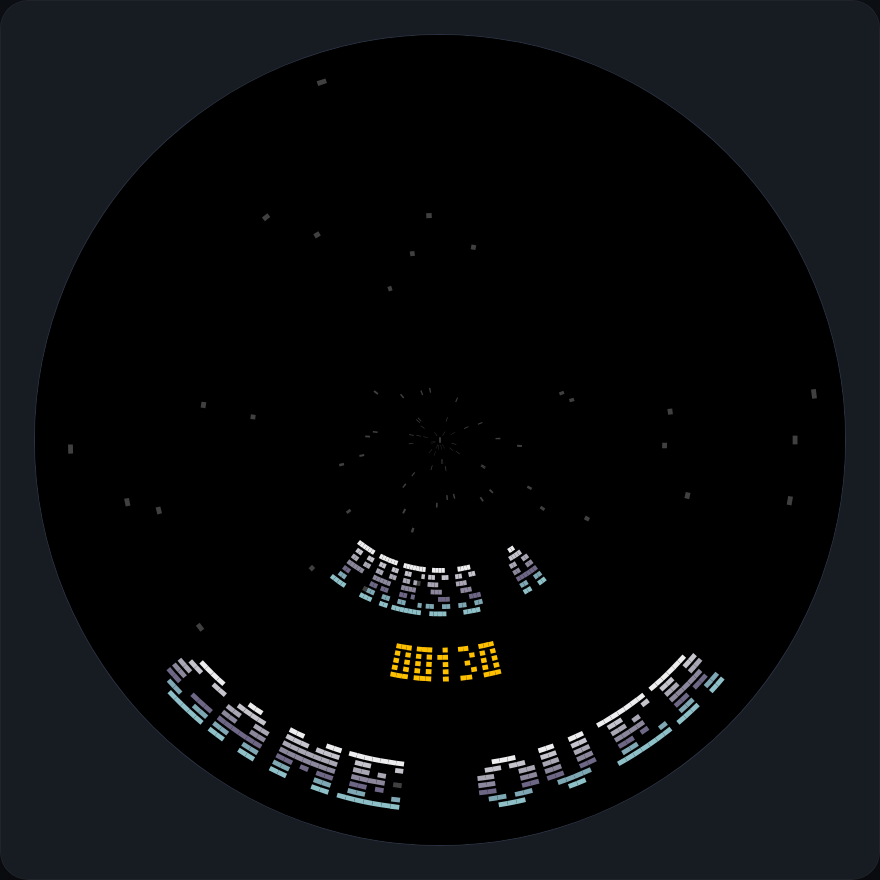
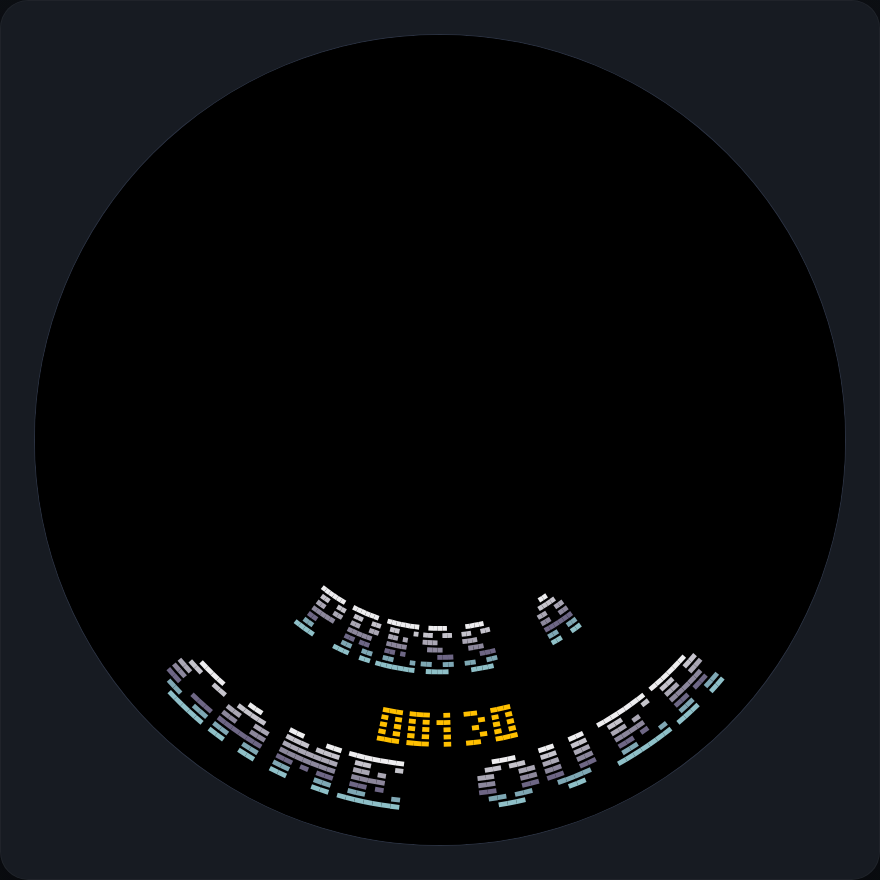
Make the scene's starfield flag work on the console and in both emulators
vs2.Scene.starfield was applied through display.set_starfield, which no platform
provided, so every scene always had stars. Implement it everywhere:

- console: forward to vshw_povdisplay.set_starfield_enabled;
- desktop emulator: remotepov sends 'starfield 0|1' (resent on reconnect) and
  the host's povrender skips its stars, in the CPU, native and shader paths;
- web emulator: BrowserDisplay posts the same command, app.js keeps the state
  and the CPU, shader and WebGL star paths honour it.

The rule: a V2 scene has stars only when it sets starfield = True; the director
turns them on when it enters any scene that has no starfield flag (the older
sprite API, which always has them, e.g. a legacy game pushed by the VS2
launcher). That makes the switch-off in Scene.on_exit unnecessary, so it goes,
and two starry scenes in a row no longer flicker.

The launcher menus and the two space shooters keep their stars. Tests cover the
V2 flag on and off, a legacy scene after a dark one, no toggling between two
starry scenes, and the desktop and browser renderers. Every tutorial screenshot
is retaken without the stars the games never asked for.

Claude-Session: https://claude.ai/code/session_01Am6eVYV27DcbeE9tF3fxdW

Changed region(s): [[0.3375, 0.6136, 0.583, 0.8591], [0.6136, 0.675, 0.675, 0.7364], [0.5523, 0.6136, 0.6136, 0.675]]

diff --git a/web/app.js b/web/app.js
@@ -42,7 +42,7 @@ import {
 
 import { BrowserAudioHost } from "./audio-host.js?v=20260709a";
 import { ChipAudioHost } from "./chip-audio-host.js?v=20260727b";
-import { LedRingWebGLRenderer, LedRingCanvasRenderer } from "./led-ring-renderers.js?v=20261003a";
+import { LedRingWebGLRenderer, LedRingCanvasRenderer } from "./led-ring-renderers.js?v=20261004a";
 import { RemoteWorkbenchAdapter, isRemoteMode } from "./remote-adapter.js?v=20260722e";
 
 
@@ -85,6 +85,9 @@ class BrowserHostApp {
     this.paletteVersion = 0;
     this.paletteUploadVersion = 0;
     this.paletteLoadedBytes = 0;
+    // Whether the scene asked for the background stars ("starfield 0|1"
+    // events from vs2.Scene); on until a scene says otherwise.
+    this.starfieldEnabled = true;
     this.lastFrame = null;
     this.lastFrameShape = null;
     this.lastMemorySnapshot = null;
@@ -294,6 +297,10 @@ class BrowserHostApp {
       }
       if (event.command === "base") {
         this.applyBaseControl(event.args || []);
+        continue;
+      }
+      if (event.command === "starfield") {
+        this.starfieldEnabled = event.args?.[0] !== "0";
         continue;
       }
       if (event.command === "palette" && event.data instanceof Uint8Array) {
@@ -661,6 +668,7 @@ class BrowserHostApp {
     this.palette = null;
     this.paletteVersion = 0;
     this.paletteLoadedBytes = 0;
+    this.starfieldEnabled = true;
     if (this.pollRequestId !== null) {
       window.cancelAnimationFrame(this.pollRequestId);
       this.pollRequestId = null;
@@ -1910,6 +1918,7 @@ class BrowserHostApp {
     } else if (!Array.isArray(frame.sprites)) {
       frame.sprites = [];
     }
+    frame.starfield = this.starfieldEnabled !== false;
     this.renderBasePreview();
     if (
       frame.palette instanceof Uint8Array &&
@@ -2146,6 +2155,7 @@ class BrowserHostApp {
       paletteVersion: this.paletteUploadVersion,
       frameNumber: frame.frame || 0,
       columnOffset: frame.column_offset || 0,
+      starfield: frame.starfield !== false,
     };
   }
 
@@ -2200,7 +2210,7 @@ class BrowserHostApp {
         strips: shaderCore.packStrips(this.assetIndex),
         palette: shaderCore.packPalette(this.palette),
         sceneData: packedScene,
-        stars: shaderCore.packStars(shaderCore.computeStarPositions(sceneInput.frameNumber)),
+        stars: shaderCore.packStars(shaderCore.computeStarPositions(sceneInput.frameNumber, sceneInput.starfield)),
         deepspace: shaderCore.packDeepspace(),
         columnOffset: sceneInput.columnOffset,
       });

diff --git a/web/scene-webgl-compositor.js b/web/scene-webgl-compositor.js
@@ -2,7 +2,7 @@
 // scene into integer textures and lets scene-shader-core's fragment shader
 // write the complete 256-column LED frame into the ring renderer's texture.
 
-import "./scene-shader-core.js?v=20260729a";
+import "./scene-shader-core.js?v=20261004a";
 
 const SceneShaderCore = globalThis.VentilastationSceneShaderCore;
 
@@ -198,7 +198,7 @@ class LedSceneWebGLCompositor {
     const scene = input.sceneKind === "vs2"
       ? packSceneVs2(input.sceneBytes)
       : packSceneLegacy(input.sceneBytes);
-    const stars = packStars(computeStarPositions(input.frameNumber));
+    const stars = packStars(computeStarPositions(input.frameNumber, input.starfield));
     const afterPackAt = performance.now();
     this.uploadIntegerTexture(this.textures.scene, {
       width: scene.sceneWidth,

diff --git a/web/index.html b/web/index.html
@@ -238,10 +238,10 @@
 
   <script type="module" src="./micropython-bridge.js?v=20260714b"></script>
   <script type="module" src="./wasm-adapter.js?v=20260714b"></script>
-  <script src="./led-render-core.js?v=20260729a"></script>
+  <script src="./led-render-core.js?v=20261004a"></script>
   <script src="./rom-builder-core.js?v=20261003b"></script>
   <script src="./rom-builder-browser.js?v=20260622c"></script>
-  <script type="module" src="./app.js?v=20261003a"></script>
+  <script type="module" src="./app.js?v=20261004a"></script>
   <script type="module" src="./monaco-ide.js?v=20260715a"></script>
 </body>
 </html>

diff --git a/web/led-ring-renderers.js b/web/led-ring-renderers.js
@@ -7,7 +7,7 @@ import {
   createLedRingGeometry,
   DEFAULT_WEBGL_RESOLUTION_SCALE,
 } from "./app-support.js?v=20260717b";
-import { LedSceneWebGLCompositor } from "./scene-webgl-compositor.js?v=20260729a";
+import { LedSceneWebGLCompositor } from "./scene-webgl-compositor.js?v=20261004a";
 
 // The LED ring spans +/-103.2 world units; this many units fit across the
 // canvas, so the outermost LEDs just touch the circular edge the stylesheet

diff --git a/web/led-render-core.js b/web/led-render-core.js
@@ -445,7 +445,9 @@
     }
 
     const columnOffset = positiveMod(Number(frame?.column_offset || 0), COLUMNS);
-    drawStarfield(pixels, frame?.frame || 0, columnOffset);
+    if (frame?.starfield !== false) {
+      drawStarfield(pixels, frame?.frame || 0, columnOffset);
+    }
 
     if (!(palette instanceof Uint8Array) || !Array.isArray(frame?.sprites)) {
       return pixels;

diff --git a/web/scene-shader-core.js b/web/scene-shader-core.js
@@ -534,7 +534,10 @@
     }));
   })();
 
-  function computeStarPositions(frameNumber) {
+  function computeStarPositions(frameNumber, enabled = true) {
+    if (enabled === false) {
+      return [];
+    }
     const ticks = Math.max(0, Number(frameNumber || 0));
     return webStarfield.map((star) => {
       const wrappedY = positiveMod(star.y0 - ticks, ROWS);

diff --git a/tests/test_vs2_api.py b/tests/test_vs2_api.py
@@ -655,6 +655,74 @@ class Vs2ApiTests(unittest.TestCase):
             self.assertIsNone(getattr(bare, "_vs_api_slug", None))
             self.assertIsNone(getattr(bare, "_vs_declared_api", None))
 
+    def starfield_calls(self):
+        """Record every set_starfield call the headless display receives."""
+        calls = []
+        display = self.runtime_director.platform.display
+        original = display.set_starfield
+
+        def record(enabled):
+            calls.append(bool(enabled))
+            original(enabled)
+
+        display.set_starfield = record
+        return calls
+
+    def test_a_v2_scene_gets_stars_only_when_it_asks_for_them(self):
+        vs2 = self.vs2
+        display = self.runtime_director.platform.display
+
+        class Dark(vs2.Scene):
+            def build(self):
+                self.layer("world")
+
+        class Starry(Dark):
+            starfield = True
+
+        with mock.patch.object(director, "load_rom"):
+            self.enter(Dark())
+            self.assertFalse(display.starfield_enabled)
+            director.pop()
+            self.enter(Starry())
+            self.assertTrue(display.starfield_enabled)
+
+    def test_a_legacy_scene_always_gets_stars(self):
+        vs2 = self.vs2
+        display = self.runtime_director.platform.display
+
+        class Dark(vs2.Scene):
+            def build(self):
+                self.layer("world")
+
+        class Legacy(LegacyScene):
+            def step(self):
+                pass
+
+        with mock.patch.object(director, "load_rom"):
+            self.enter(Dark())
+            self.assertFalse(display.starfield_enabled)
+            # The launcher pushing a legacy game on top of a scene with the
+            # stars off is the common case.
+            director.push(Legacy())
+            self.assertTrue(display.starfield_enabled)
+
+    def test_stars_stay_on_between_two_scenes_that_both_want_them(self):
+        vs2 = self.vs2
+
+        class Starry(vs2.Scene):
+            starfield = True
+
+            def build(self):
+                self.layer("world")
+
+        with mock.patch.object(director, "load_rom"):
+            first = self.enter(Starry())
+            calls = self.starfield_calls()
+            first.switch(Starry())
+            first._commit_transition()
+        self.assertTrue(calls)
+        self.assertNotIn(False, calls)
+
     def test_idle_default_pops_and_back_button_can_be_claimed(self):
         vs2 = self.vs2
         idle_calls = []

diff --git a/apps/micropython/ventilastation/platforms/browser.py b/apps/micropython/ventilastation/platforms/browser.py
@@ -169,6 +169,8 @@ class BrowserDisplay(NullDisplay):
         self.assets = {}
         self.dirty_asset_slots = set()
         self.vs2_scene_data = None
+        self.starfield_enabled = True
+        self._starfield_dirty = True
         self._vs2_scene_line = None
         self._vs2_scene_line_length = -1
         self._worker_post_command_ptr = None
@@ -221,6 +223,17 @@ class BrowserDisplay(NullDisplay):
         if self.worker_host is None:
             return False
         return _post_worker_command(self.worker_host, line, data)
+
+    def set_starfield(self, enabled):
+        """Turn the background stars on or off (the scene's ``starfield``
+        flag). The browser draws them, so the state is posted to it."""
+        enabled = bool(enabled)
+        if enabled != self.starfield_enabled:
+            self.starfield_enabled = enabled
+            self._starfield_dirty = True
+
+    def _starfield_line(self):
+        return b"starfield 1" if self.starfield_enabled else b"starfield 0"
 
     def _post_vs2_scene(self):
         data = self.vs2_scene_data
@@ -395,6 +408,9 @@ class BrowserDisplay(NullDisplay):
         if self.worker_host is None:
             return
         full = bool(self.worker_host.consume_full_frame_request())
+        if full or self._starfield_dirty:
+            self._post_command(self._starfield_line())
+            self._starfield_dirty = False
         if (full or self.palette_dirty) and self.palette:
             self._post_command("palette %d %d" % (len(self.palette), self.palette_version), self.palette)
         if full:
@@ -474,6 +490,12 @@ class BrowserDisplay(NullDisplay):
         exported["assets"] = [self.assets[slot] for slot in asset_slots if slot in self.assets]
         after_assets_at = ticks_us()
         exported["events"] = self.comms.drain_events()
+        if full or self._starfield_dirty:
+            exported["events"].append({
+                "command": "starfield",
+                "args": ["1" if self.starfield_enabled else "0"],
+            })
+            self._starfield_dirty = False
         if self.vs2_scene_data is not None:
             exported["events"].append({
                 "command": "vs2_scene",

diff --git a/emulator/povrender.py b/emulator/povrender.py
@@ -22,6 +22,8 @@ STARS = COLUMNS // 2
 led_count = PIXELS
 
 starfield = [(random.randrange(COLUMNS), random.randrange(ROWS)) for n in range(STARS)]
+# Whether the stars are drawn: the running scene sets it (comms "starfield").
+starfield_enabled = True
 spritedata = bytearray( b"\0\0\0\xff\xff" * 100)
 
 # The native compositor normally consumes decoded Python structures.  The
@@ -181,7 +183,7 @@ def snapshot_scene_shader_input():
             "scene": _vs2_scene_bytes if _vs2_scene_bytes is not None else bytes(spritedata),
             "assets": tuple(all_strips.items()),
             "palette": _palette_wire_bytes,
-            "stars": tuple(starfield),
+            "stars": tuple(starfield) if starfield_enabled else (),
             "assets_revision": _scene_assets_revision,
             "palette_revision": _scene_palette_revision,
         }
@@ -497,6 +499,12 @@ def render_sprite(pixels, column, x, y, image, frame, perspective,
                 set_pixel(pixels, led, upalette[index + pal_base])
 
 
+def set_starfield_enabled(enabled):
+    global starfield_enabled
+    starfield_enabled = bool(enabled)
+    native_render.set_starfield(starfield_enabled)
+
+
 def step_starfield():
     for (n, (x, y)) in enumerate(starfield):
         y -= 1
@@ -530,7 +538,7 @@ def render(column, vs2_scene=_CURRENT_VS2_SCENE):
 
     pixels = [0x00000000] * led_count
 
-    for (x,y) in starfield:
+    for (x,y) in (starfield if starfield_enabled else ()):
         if x == column:
             try:
                 px = deepspace[y]

diff --git a/apps/micropython/ventilastation/remotepov.py b/apps/micropython/ventilastation/remotepov.py
@@ -7,6 +7,7 @@ sprite_data = bytearray(b"\0\0\0\xff\xff" * 100)
 stripes = {}
 _palette = None
 vs2_scene_data = None
+_starfield = True
 
 def init(num_pixels, *hw_config):
     pass
@@ -40,6 +41,12 @@ def set_imagestrip(n, stripmap):
     stripes[n] = stripmap
     comms.send(b"imagestrip %s %d" % (n, len(stripmap)), stripmap)
 
+def set_starfield(enabled):
+    """Tell the desktop host whether to draw the background stars."""
+    global _starfield
+    _starfield = bool(enabled)
+    comms.send(b"starfield 1" if _starfield else b"starfield 0")
+
 def prepare_frame(scene):
     global vs2_scene_data
     if getattr(scene, "_vs_declared_api", None) != "vs2":
@@ -56,6 +63,7 @@ def _resend_all():
     for n, stripmap in stripes.items():
         comms.send(b"imagestrip %s %d" % (n, len(stripmap)), stripmap)
         print("remotepov: imagestrip %s sent (%d bytes)" % (n, len(stripmap)))
+    comms.send(b"starfield 1" if _starfield else b"starfield 0")
     print("remotepov: resend_all done")
 
 def update():

diff --git a/tests/test_emulator_vs2_render.py b/tests/test_emulator_vs2_render.py
@@ -415,5 +415,22 @@ class EmulatorVs2RenderTests(unittest.TestCase):
         self.assertEqual(pixels_column_10, [0] * povrender.led_count)
 
 
+    def test_the_scene_can_switch_the_starfield_off(self):
+        lit_rows = [y for y in range(256) if povrender.deepspace[y] < povrender.PIXELS]
+        saved = list(povrender.starfield)
+        povrender.starfield[:] = [(5, lit_rows[0])]
+        try:
+            povrender.set_starfield_enabled(True)
+            self.assertEqual(sum(1 for pixel in povrender.render(5) if pixel), 1)
+            self.assertEqual(len(povrender.snapshot_scene_shader_input()["stars"]), 1)
+
+            povrender.set_starfield_enabled(False)
+            self.assertEqual(sum(1 for pixel in povrender.render(5) if pixel), 0)
+            self.assertEqual(povrender.snapshot_scene_shader_input()["stars"], ())
+        finally:
+            povrender.starfield[:] = saved
+            povrender.set_starfield_enabled(True)
+
+
 if __name__ == "__main__":
     unittest.main()

diff --git a/emulator/comms.py b/emulator/comms.py
@@ -22,7 +22,7 @@ from base_control import BaseControlState
 from povcal_state import PovCalibrationState
 from povperf_controls import start_capture, stop_capture
 from povrender import set_palettes, set_image_strip, set_spritedata
-from povrender import clear_vs2_scene, set_vs2_scene
+from povrender import clear_vs2_scene, set_vs2_scene, set_starfield_enabled
 from povrender import (
     set_voom_frame_rgb,
     set_voom_frame_apa102,
@@ -384,6 +384,10 @@ def dispatch_command(conn, command, args):
         clear_voom_frame()
         length = int(args[0]) if args else 0
         set_vs2_scene(conn.read(length))
+
+    elif command == b"starfield":
+        # "starfield 0|1": the running scene's starfield flag (vs2.Scene).
+        set_starfield_enabled(not args or args[0] != b"0")
 
     elif command == b"palette":
         paldata = conn.read(1024 * int(args[0]))
